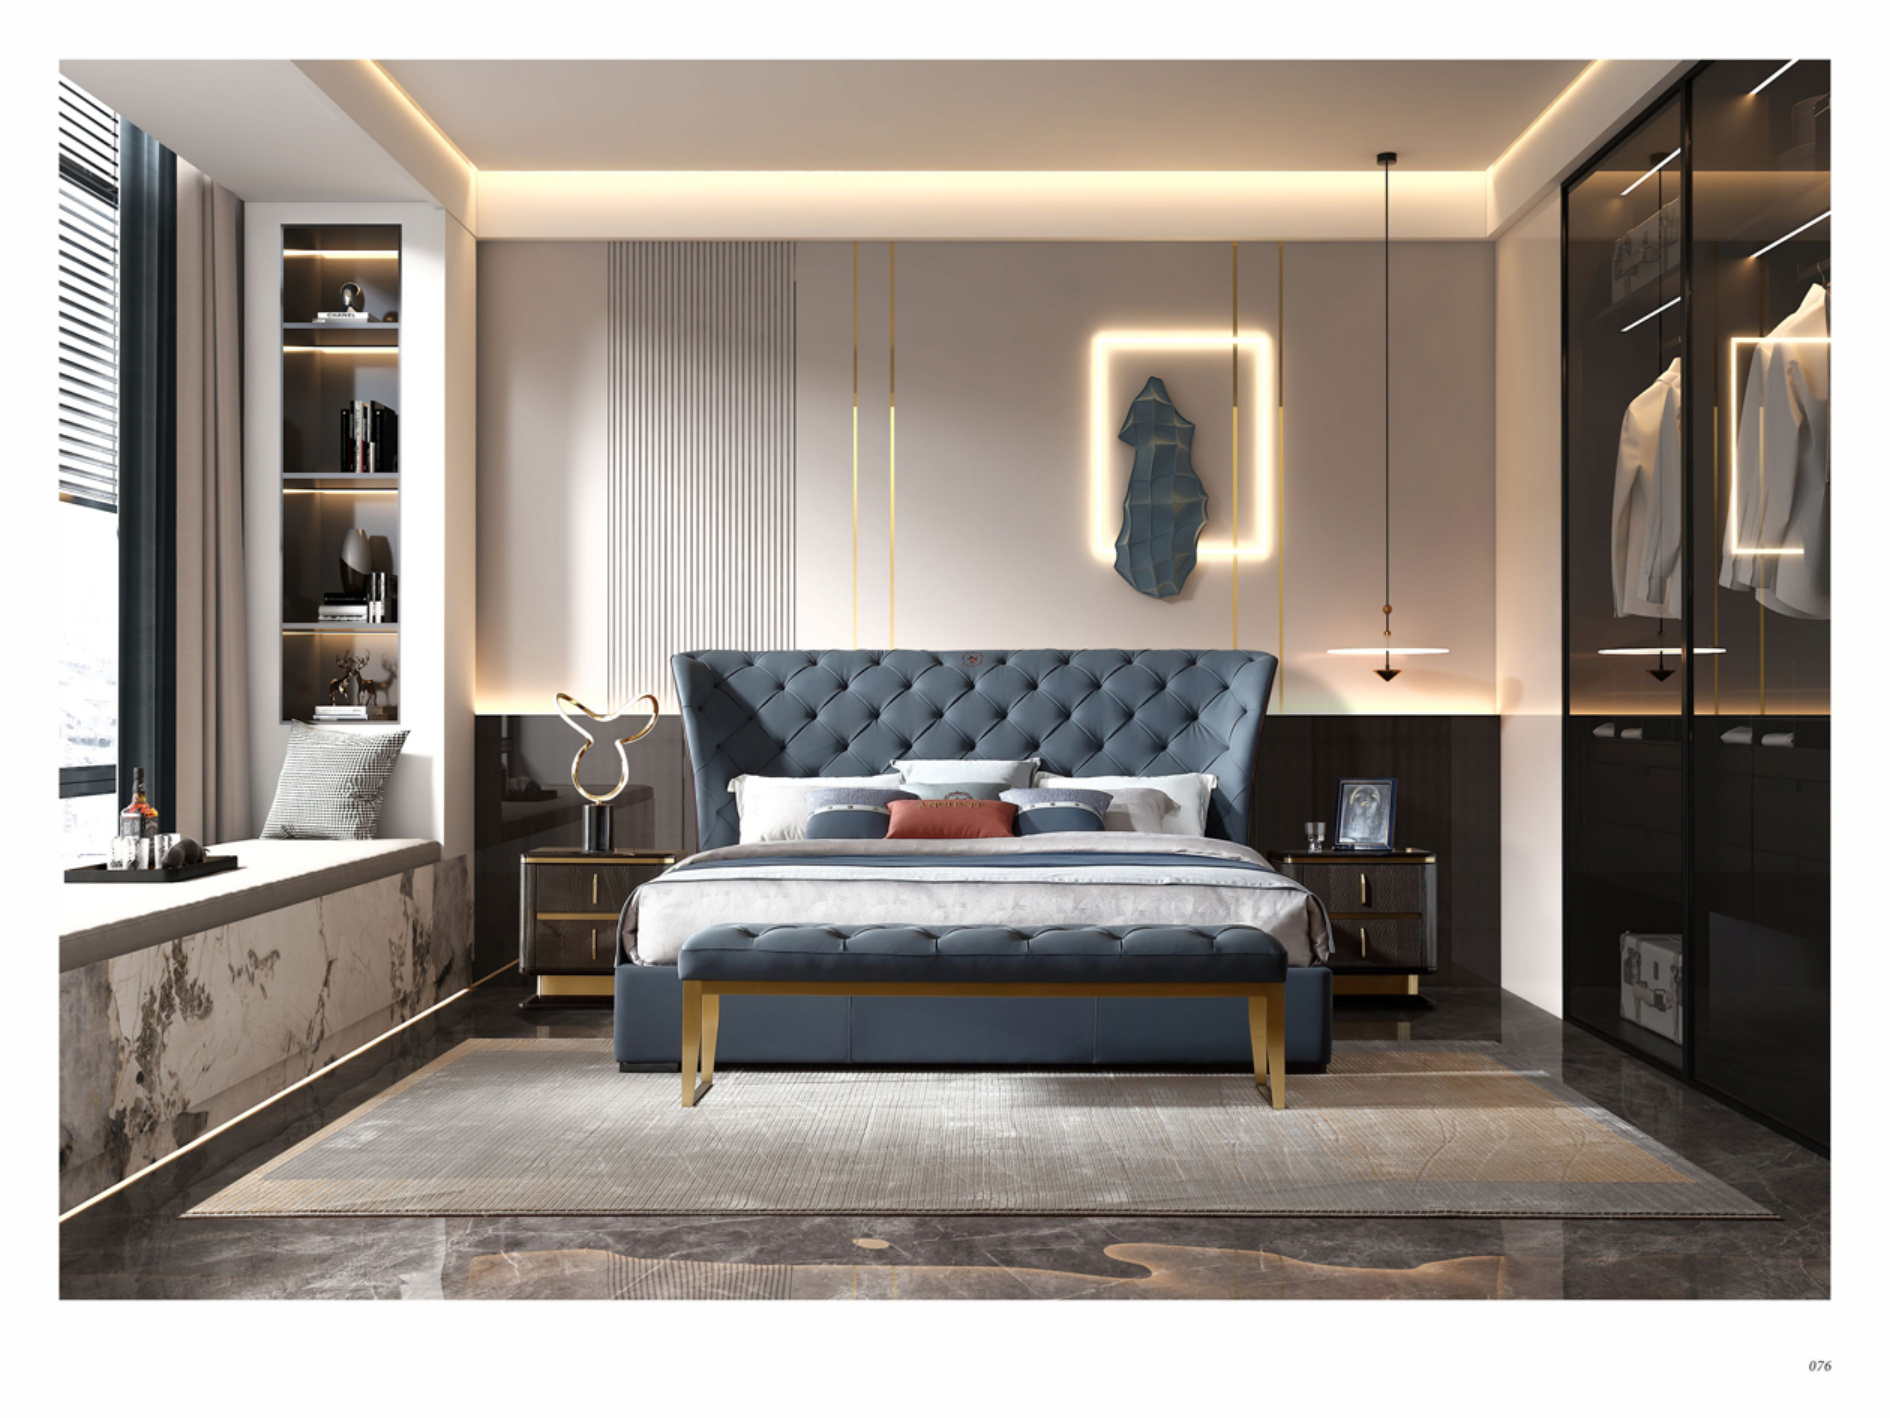
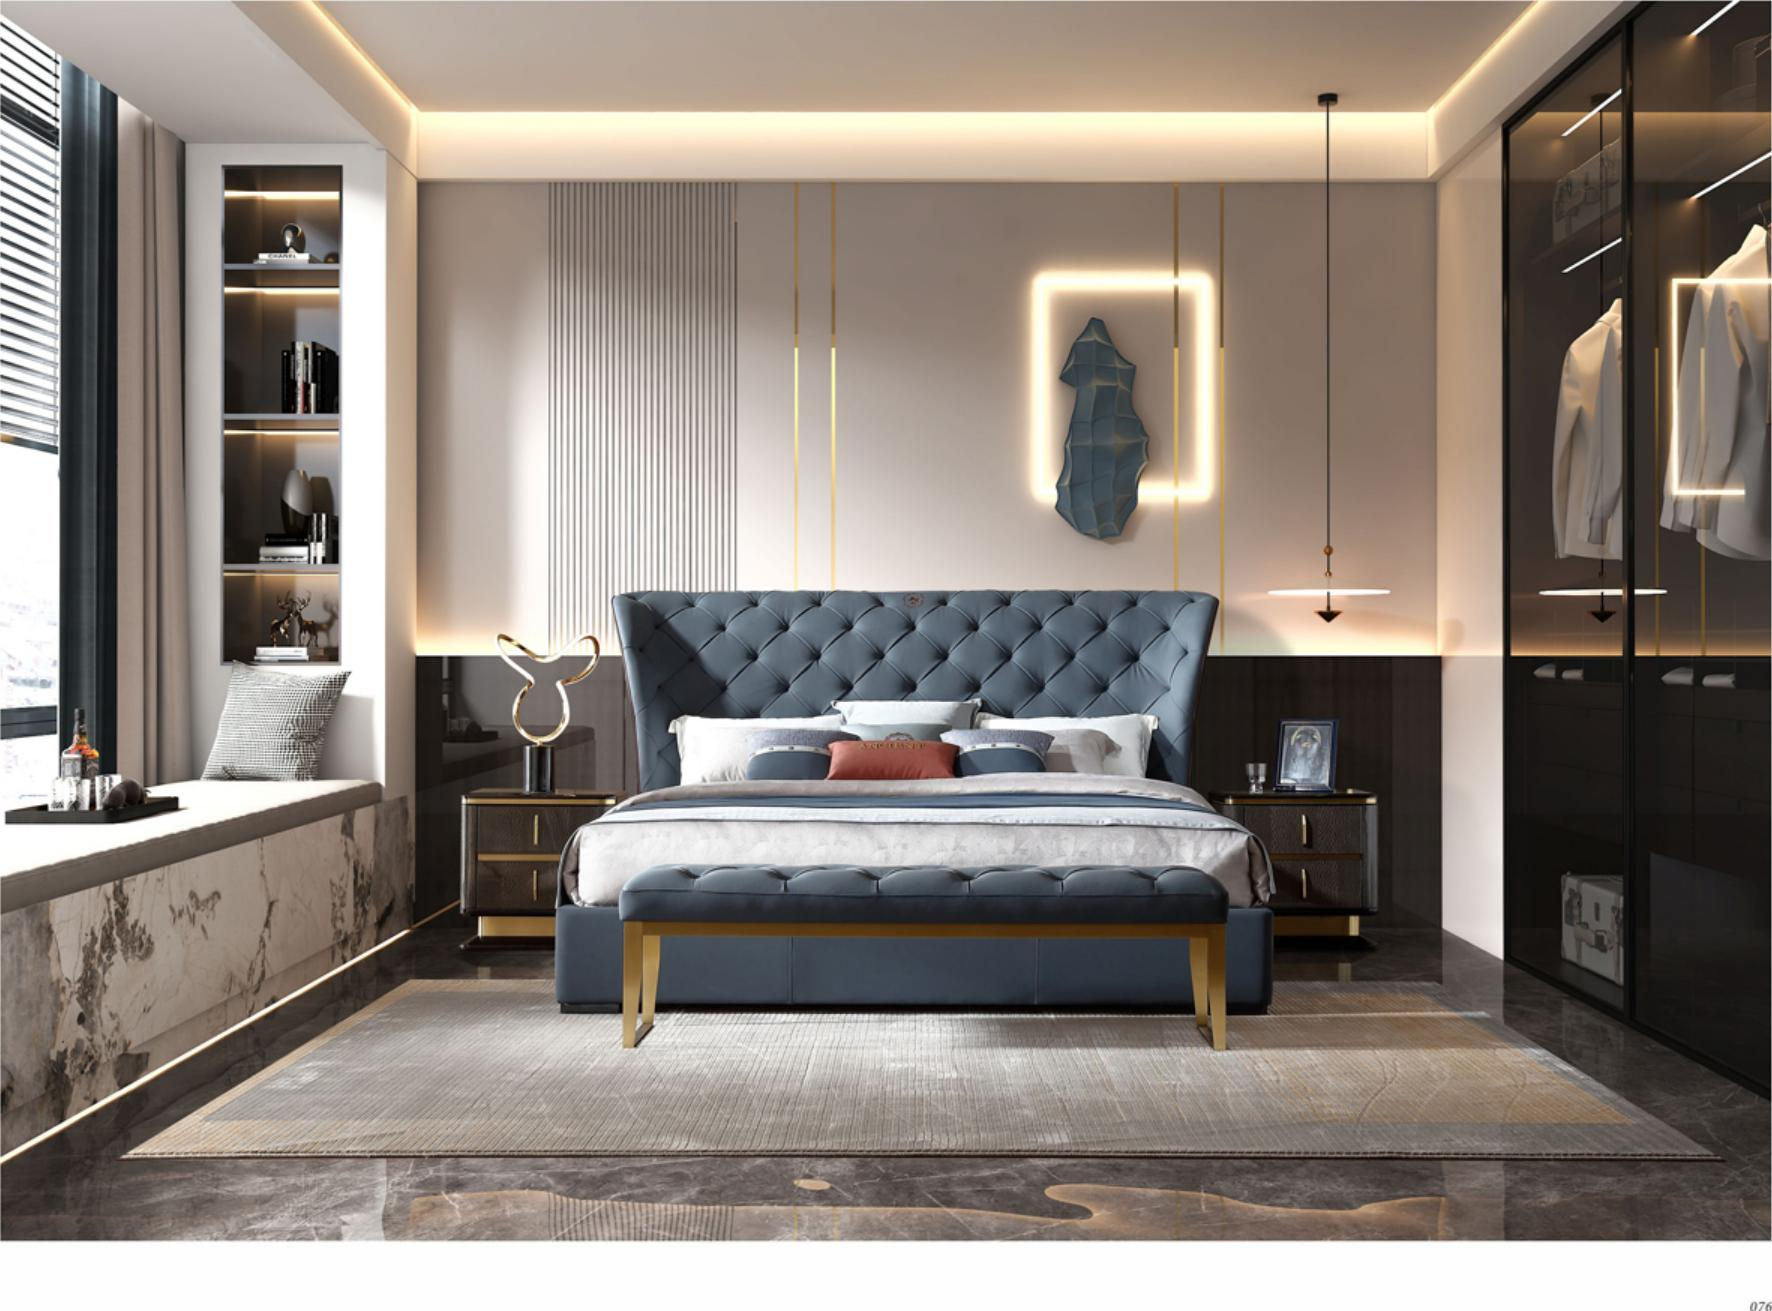
changed images in home page

diff --git a/src/app/page.tsx b/src/app/page.tsx
@@ -186,7 +186,7 @@ export default function HomePage() {
                style={{ y: y2 }}
              >
                 <div className="absolute inset-0 bg-deep-ink/20 mix-blend-multiply z-10 pointer-events-none" />
-                <PremiumImage src="/images/vignette-2.jpg" alt="Material texture" fill className="object-cover grayscale-[30%] opacity-90 mix-blend-luminosity" sizes="(max-width: 768px) 50vw, 25vw" />
+                <PremiumImage src="/images/vignette-3.jpg" alt="Material texture" fill className="object-cover grayscale-[30%] opacity-90 mix-blend-luminosity" sizes="(max-width: 768px) 50vw, 25vw" />
              </motion.div>
           </div>
           
@@ -215,10 +215,10 @@ export default function HomePage() {
                     href={masterCatalogueUrl}
                     target="_blank"
                     rel="noopener noreferrer"
-                    className="inline-flex items-center gap-3 border border-gold/30 text-gold/80 px-6 py-3 text-xs uppercase tracking-[0.2em] font-sans hover:bg-gold/10 hover:border-gold/60 transition-all duration-500"
+                    className="group inline-flex items-center gap-3 border border-gold/30 text-gold/80 px-6 py-3 text-xs uppercase tracking-[0.2em] font-sans hover:bg-gold/10 hover:border-gold/60 transition-all duration-500"
                   >
-                    <svg xmlns="http://www.w3.org/2000/svg" width="14" height="14" viewBox="0 0 24 24" fill="none" stroke="currentColor" strokeWidth="1.5" strokeLinecap="round" strokeLinejoin="round"><path d="M21 15v4a2 2 0 0 1-2 2H5a2 2 0 0 1-2-2v-4"/><polyline points="7 10 12 15 17 10"/><line x1="12" y1="15" x2="12" y2="3"/></svg>
-                    <span>Download All Catalogues</span>
+                    <span>View All Catalogues</span>
+                    <span className="group-hover:translate-x-1 transition-transform duration-300">→</span>
                   </a>
                 </Magnetic>
               </div>
@@ -267,10 +267,10 @@ export default function HomePage() {
                         href={collection.catalogueUrl}
                         target="_blank"
                         rel="noopener noreferrer"
-                        className="inline-flex items-center gap-2 text-cream/40 text-xs uppercase tracking-[0.2em] font-sans mt-4 hover:text-gold/70 transition-colors duration-400"
+                        className="group inline-flex items-center gap-2 text-cream/40 text-xs uppercase tracking-[0.2em] font-sans mt-4 hover:text-gold/70 transition-colors duration-400"
                       >
-                        <svg xmlns="http://www.w3.org/2000/svg" width="12" height="12" viewBox="0 0 24 24" fill="none" stroke="currentColor" strokeWidth="1.5" strokeLinecap="round" strokeLinejoin="round"><path d="M21 15v4a2 2 0 0 1-2 2H5a2 2 0 0 1-2-2v-4"/><polyline points="7 10 12 15 17 10"/><line x1="12" y1="15" x2="12" y2="3"/></svg>
                         <span>View Catalogue</span>
+                        <span className="group-hover:translate-x-1 transition-transform duration-300">→</span>
                       </a>
                     </SectionReveal>
                   </div>

diff --git a/src/components/ui/BespokeProcess.tsx b/src/components/ui/BespokeProcess.tsx
@@ -12,19 +12,19 @@ const steps = [
     id: "01",
     title: "Consultation & Vision",
     description: "Our in-house architects work closely with you or your design team to understand the spatial requirements, material preferences, and the exact atmosphere you wish to cultivate.",
-    image: "/images/vignette-1.jpg"
+    image: "/images/service-1.jpg"
   },
   {
     id: "02",
     title: "Factory-Direct Curation",
     description: "We bypass local distributors entirely. Our team works directly with China's finest furniture factories, hand-selecting pieces that meet our exacting standards for material, proportion, and finish.",
-    image: "/images/collection-furniture.jpg"
+    image: "/images/service-2.jpg"
   },
   {
     id: "03",
     title: "White-Glove Acquisition",
     description: "From international logistics to final placement in your home. We handle the entire acquisition lifecycle, ensuring zero compromise on the condition and installation of your pieces.",
-    image: "/images/vignette-2.jpg"
+    image: "/images/service-3.jpg"
   }
 ];
 

diff --git a/src/components/ui/FeaturedSpaces.tsx b/src/components/ui/FeaturedSpaces.tsx
@@ -46,7 +46,7 @@ export default function FeaturedSpaces() {
               <CurtainReveal>
                 <div className="w-full h-full relative overflow-hidden">
                   <motion.div whileHover={{ scale: 1.05 }} transition={{ duration: 0.8 }} className="w-full h-full relative">
-                    <PremiumImage src="/images/hero-home.jpg" alt="Luxury Living Room" fill className="object-cover" />
+                    <PremiumImage src="/images/gallery-1.jpg" alt="Architectural Storage" fill className="object-cover" />
                     <div className="absolute inset-0 bg-black/20 group-hover:bg-transparent transition-colors duration-500" />
                   </motion.div>
                 </div>
@@ -59,7 +59,7 @@ export default function FeaturedSpaces() {
               <CurtainReveal>
                 <div className="w-full h-full relative overflow-hidden">
                   <motion.div whileHover={{ scale: 1.05 }} transition={{ duration: 0.8 }} className="w-full h-full relative">
-                    <PremiumImage src="/images/collection-kitchen.jpg" alt="Minimalist Kitchen" fill className="object-cover" />
+                    <PremiumImage src="/images/gallery-2.jpg" alt="Curated Bedroom Piece" fill className="object-cover" />
                     <div className="absolute inset-0 bg-black/20 group-hover:bg-transparent transition-colors duration-500" />
                   </motion.div>
                 </div>
@@ -70,7 +70,7 @@ export default function FeaturedSpaces() {
               <CurtainReveal>
                 <div className="w-full h-full relative overflow-hidden">
                   <motion.div whileHover={{ scale: 1.05 }} transition={{ duration: 0.8 }} className="w-full h-full relative">
-                    <PremiumImage src="/images/collection-furniture.jpg" alt="Architectural Details" fill className="object-cover grayscale-[20%]" />
+                    <PremiumImage src="/images/gallery-3.jpg" alt="Dining Environment" fill className="object-cover grayscale-[20%]" />
                     <div className="absolute inset-0 bg-black/20 group-hover:bg-transparent transition-colors duration-500" />
                   </motion.div>
                 </div>

diff --git a/extract_gallery.py b/extract_gallery.py
@@ -1,0 +1,28 @@
+import fitz
+import os
+from PIL import Image, ImageChops
+
+def trim(im):
+    bg = Image.new(im.mode, im.size, im.getpixel((0,0)))
+    diff = ImageChops.difference(im, bg)
+    diff = ImageChops.add(diff, diff, 2.0, -100)
+    bbox = diff.getbbox()
+    if bbox:
+        return im.crop(bbox)
+    return im
+
+def extract_and_trim(p, n, o):
+    try:
+        doc = fitz.open(os.path.join('public/assets', p))
+        pix = doc[n].get_pixmap(dpi=150)
+        t = 'temp.jpg'
+        pix.save(t)
+        im = Image.open(t)
+        trim(im).save(os.path.join('public/images', o))
+        os.remove(t)
+    except Exception as e:
+        print(f"Error: {e}")
+
+extract_and_trim('墨影系列-44_Storage & Decor.pdf', 0, 'gallery-1.jpg')
+extract_and_trim('艾伦斯特-四代艾迪电子画册(4)-45_Bedroom.pdf', 0, 'gallery-2.jpg')
+extract_and_trim('（高清)新北美黑胡桃2024（6)-63_Dining.pdf', 0, 'gallery-3.jpg')

diff --git a/extract_service.py b/extract_service.py
@@ -1,0 +1,28 @@
+import fitz
+import os
+from PIL import Image, ImageChops
+
+def trim(im):
+    bg = Image.new(im.mode, im.size, im.getpixel((0,0)))
+    diff = ImageChops.difference(im, bg)
+    diff = ImageChops.add(diff, diff, 2.0, -100)
+    bbox = diff.getbbox()
+    if bbox:
+        return im.crop(bbox)
+    return im
+
+def extract_and_trim(p, n, o):
+    try:
+        doc = fitz.open(os.path.join('public/assets', p))
+        pix = doc[n].get_pixmap(dpi=150)
+        t = 'temp2.jpg'
+        pix.save(t)
+        im = Image.open(t)
+        trim(im).save(os.path.join('public/images', o))
+        os.remove(t)
+    except Exception as e:
+        print(f"Error: {e}")
+
+extract_and_trim('艾伦斯特-四代艾迪电子画册(4)-49_Bedroom.pdf', 0, 'service-1.jpg')
+extract_and_trim('墨影系列-41_Storage&decor.pdf', 0, 'service-2.jpg')
+extract_and_trim('艾伦斯特-四代艾迪电子画册(4)-67_Dining.pdf', 0, 'service-3.jpg')

diff --git a/extract_vignette.py b/extract_vignette.py
@@ -1,0 +1,26 @@
+import fitz
+import os
+from PIL import Image, ImageChops
+
+def trim(im):
+    bg = Image.new(im.mode, im.size, im.getpixel((0,0)))
+    diff = ImageChops.difference(im, bg)
+    diff = ImageChops.add(diff, diff, 2.0, -100)
+    bbox = diff.getbbox()
+    if bbox:
+        return im.crop(bbox)
+    return im
+
+def extract_and_trim(p, n, o):
+    try:
+        doc = fitz.open(os.path.join('public/assets', p))
+        pix = doc[n].get_pixmap(dpi=150)
+        t = 'temp3.jpg'
+        pix.save(t)
+        im = Image.open(t)
+        trim(im).save(os.path.join('public/images', o))
+        os.remove(t)
+    except Exception as e:
+        print(f"Error: {e}")
+
+extract_and_trim('艾伦斯特-四代艾迪电子画册(4)-61_Bedroom.pdf', 0, 'vignette-3.jpg')